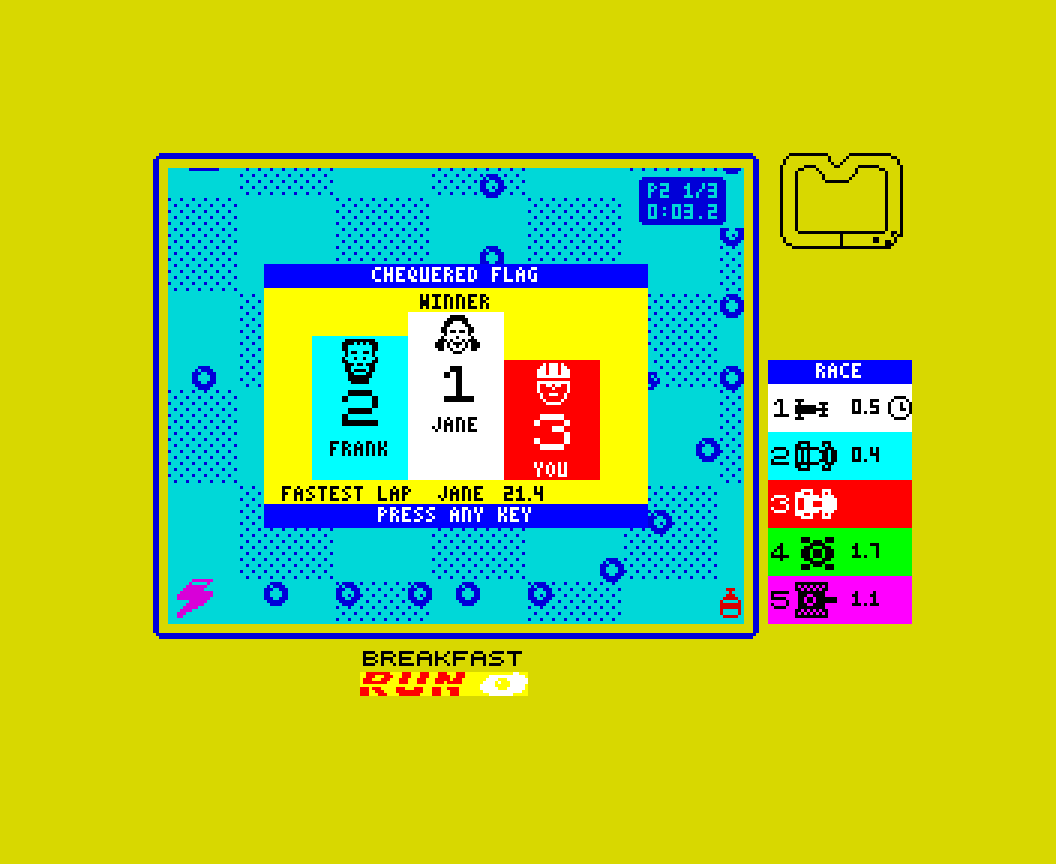
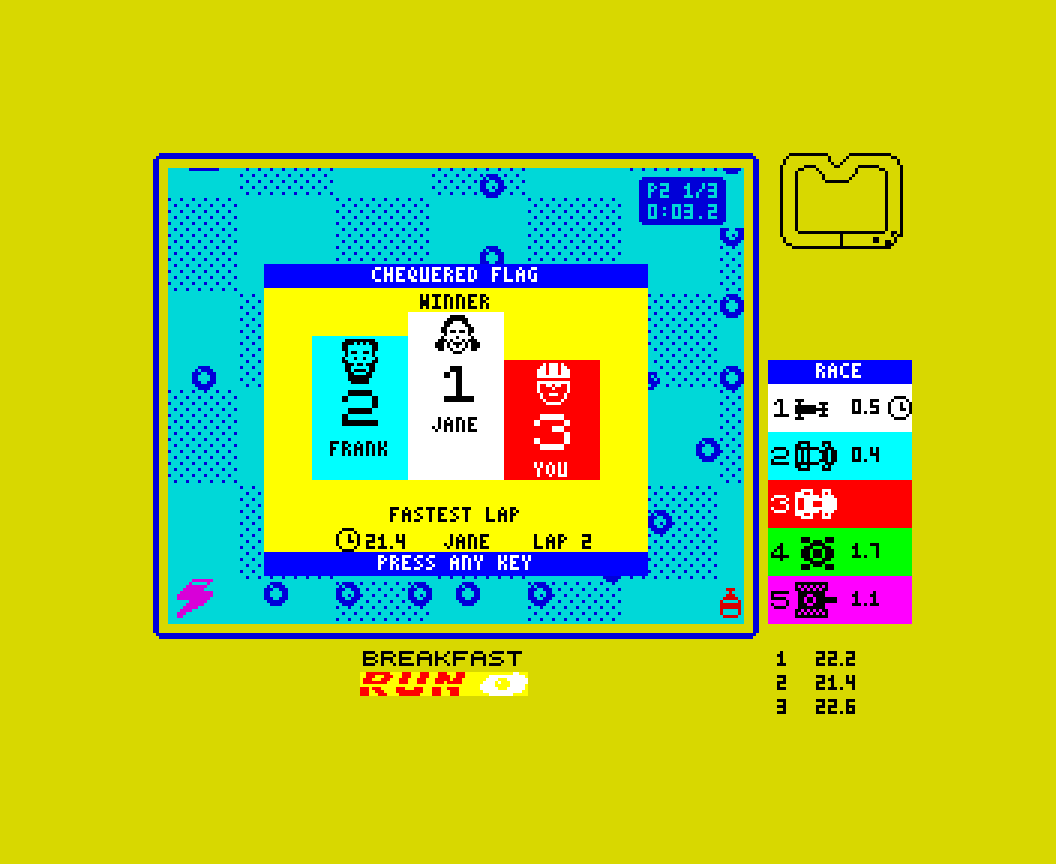
Podium: fastest lap on its own lines with the clock and the lap number; your lap times under the panel
FASTEST LAP, then clock, time, name and LAP n, a clear row under the
podium. Your own three lap times are listed under the race panel at the
end. finish_test covers both.

Claude-Session: https://claude.ai/code/session_01476U86GiAC8cKs57wAJvc3

Changed region(s): [[0.25, 0.5625, 0.625, 0.6875], [0.7188, 0.75, 0.8125, 0.8438]]

diff --git a/tests/finish_test.py b/tests/finish_test.py
@@ -31,19 +31,25 @@ with Racer(headless=True) as sp:
     hold(sp, ['Q'], 1.0)
     order = [4, 1, 0, 3, 2]                               # JANE (white) wins, FRANK (cyan) second, YOU third
     sp.write(SYM['order'], bytes(order)); sp.write(SYM['best_lap'], bytes([1070 & 255, 1070 >> 8])); sp.write(SYM['best_car'], bytes([4]))
+    sp.write(SYM['you_laps'], bytes([0x56, 4, 0x2E, 4, 0x6A, 4])); sp.write(SYM['best_lapno'], bytes([2]))    # your laps: 22.2, 21.4, 22.6 s
     sp.write(SYM['race_over'], bytes([1])); sp.run(duration=0.6, fast_forward=True)
     sb = screen_bits(sp).astype(bool)
     A = np.array([[attr(sp, r, c) for c in range(32)] for r in range(24)])
-    want = np.full((11, 16), 0x70); want[0] = 0x4F; want[10] = 0x4F
+    want = np.full((13, 16), 0x70); want[0] = 0x4F; want[12] = 0x4F
     want[2:9, 6:10] = COLOUR[4]; want[3:9, 2:6] = COLOUR[1]; want[4:9, 10:14] = COLOUR[0]
-    ok((A[5:16, 5:21] == want).all(), 'the podium: a yellow card (rows 5-15, columns 5-20), blue head and foot, three steps in the drivers\' own colours - white, cyan, red - with yellow all round them')
-    ok((A[5:17, 1:5] == 0x29).all() and (A[5:17, 21:25] == 0x29).all() and (A[16:20, 1:25] != 0x70).all() and (A[1:5, 5:21] != 0x70).all(), 'the cloth round the card keeps its own colours')
+    ok((A[5:18, 5:21] == want).all(), 'the podium: a yellow card (rows 5-17, columns 5-20), blue head and foot, three steps in the drivers\' own colours - white, cyan, red - with yellow all round them')
+    ok((A[5:17, 1:5] == 0x29).all() and (A[5:17, 21:25] == 0x29).all() and (A[18:20, 1:25] != 0x70).all() and (A[1:5, 5:21] != 0x70).all(), 'the cloth round the card keeps its own colours')
     ok((sb[56:72, 96:112] == HAPPY['WHITE']).all(), 'the winner\'s face is the HAPPY one, the same size as the others, on the top step')
     ok((sb[64:80, 64:80] == EVERY['CYAN']).all() and (sb[72:88, 128:144] == EVERY['GREEN' if False else 'YOU']).all(), 'second and third have their everyday faces')
     ok(sb[72:88, 96:112].any() and sb[80:96, 64:80].any() and sb[88:104, 128:144].any() and sb[91:96, 96:112].any() and sb[99:104, 60:84].any() and sb[106:111, 128:144].any(),
        'each step has its place, large, and its driver\'s name in the small letters')
-    ok(sb[41:46, 76:132].any() and sb[50:55, 92:116].any() and sb[114:119, 46:90].any() and sb[114:119, 96:136].any() and sb[121:126, 78:130].any(),
-       'CHEQUERED FLAG, WINNER, FASTEST LAP with a name and a time, PRESS ANY KEY')
+    ok(sb[41:46, 76:132].any() and sb[50:55, 92:116].any() and sb[121:126, 82:126].any() and sb[137:142, 78:130].any() and not sb[112:120, 40:168].any(),
+       'CHEQUERED FLAG, WINNER, a clear row under the podium, FASTEST LAP, PRESS ANY KEY')
+    clock8 = np.array([[sp.read8(SYM['clock8'] + r) >> (7 - c) & 1 for c in range(8)] for r in range(8)], dtype=bool)
+    ok((sb[128:136, 64:72] == clock8).all() and sb[130:135, 74:92].any() and sb[130:135, 98:120].any() and sb[130:135, 130:150].any() and not sb[128:136, 152:168].any(),
+       'under FASTEST LAP: the clock icon, the time, whose it was, and LAP with its number')
+    ok(all(sb[169 + 8 * i:174 + 8 * i, 211:216].any() and sb[169 + 8 * i:174 + 8 * i, 224:244].any() for i in range(3)) and not sb[168:192, 0:72].any(),
+       'your own three lap times are listed under the panel: the lap, its time')
     shot(sp, 'podium.png')
     r0 = g(sp, 'renders'); sp.run(duration=1.0, fast_forward=True)
     ok(g(sp, 'renders') == r0 and attr(sp, 8, 10) != 0x7A, 'the race stays stopped under it, until a key')
